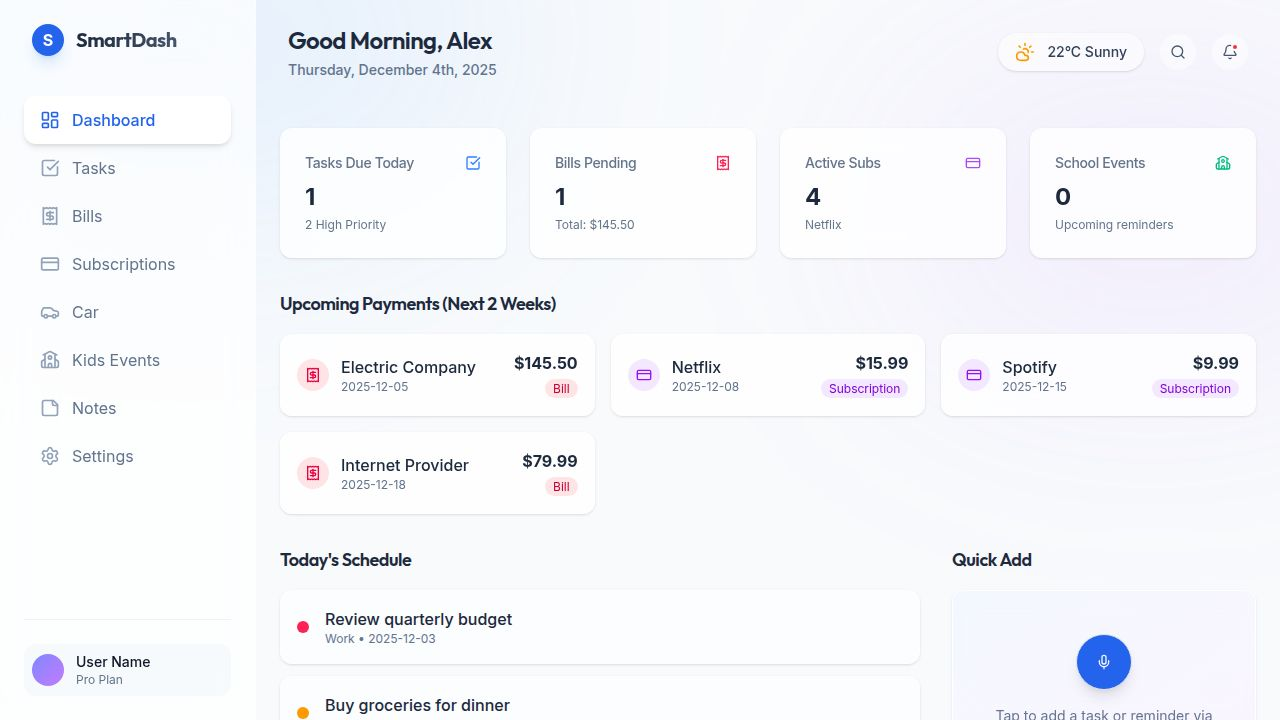
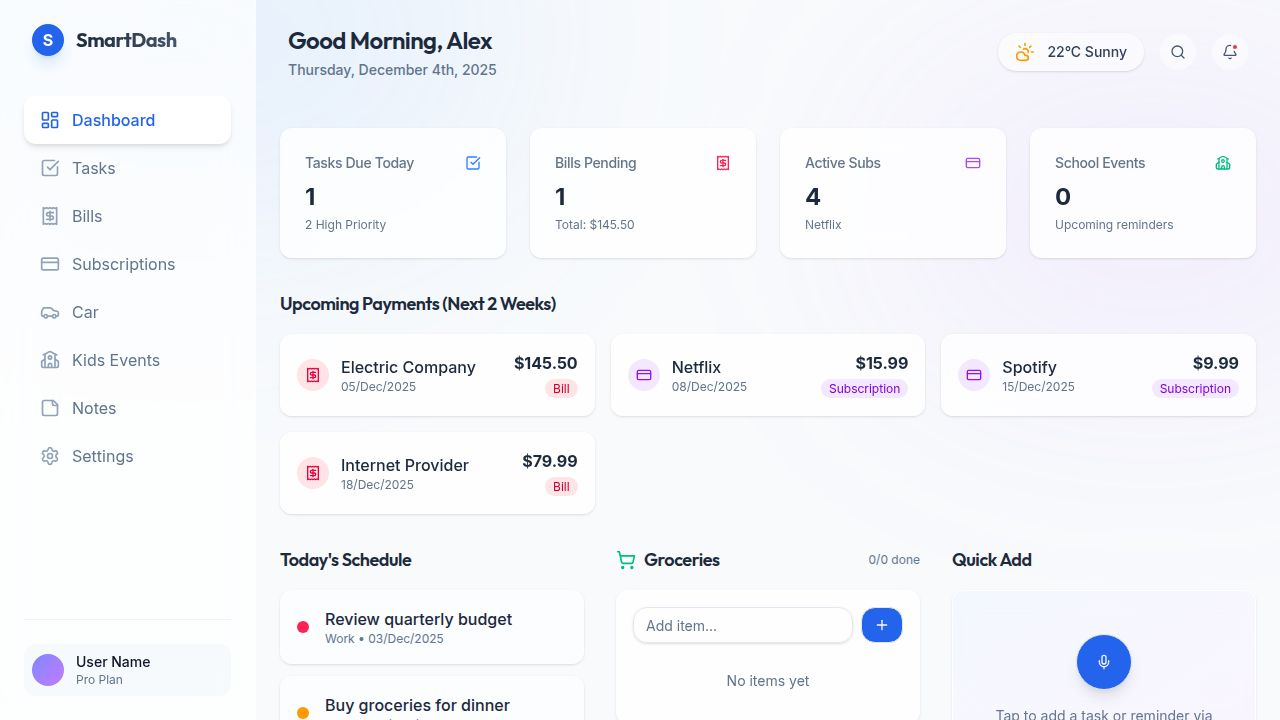
Allow users to mark bills as paid and edit payment details
Introduces a dialog for editing bill details and marking them as paid, along with a mutation to update bill status and last paid date.

Replit-Commit-Author: Agent
Replit-Commit-Session-Id: 42813163-b8d0-47a2-b8fa-e697e560c764
Replit-Commit-Checkpoint-Type: full_checkpoint
Replit-Commit-Event-Id: c5e2b43e-a37d-44c9-9261-855f9df0fc4d
Replit-Commit-Screenshot-Url: https://storage.googleapis.com/screenshot-production-us-central1/02ea1dc9-468e-4df3-adbd-6b48fe4e62f9/42813163-b8d0-47a2-b8fa-e697e560c764/0R4U4wr

diff --git a/client/src/pages/dashboard.tsx b/client/src/pages/dashboard.tsx
@@ -2,19 +2,26 @@ import { AppLayout } from "@/components/layout/app-layout";
 import { Card, CardContent, CardHeader, CardTitle } from "@/components/ui/card";
 import { Button } from "@/components/ui/button";
 import { Input } from "@/components/ui/input";
-import { CheckSquare, Receipt, CreditCard, School, ShoppingCart, Plus, X, Check } from "lucide-react";
+import { CheckSquare, Receipt, CreditCard, School, ShoppingCart, Plus, X, Check, CheckCircle } from "lucide-react";
 import { VoiceInput } from "@/components/voice-input";
+import { Dialog, DialogContent, DialogHeader, DialogTitle } from "@/components/ui/dialog";
+import { Select, SelectContent, SelectItem, SelectTrigger, SelectValue } from "@/components/ui/select";
+import { Label } from "@/components/ui/label";
 import { format } from "date-fns";
 import { cn } from "@/lib/utils";
 import { formatDisplayDate } from "@/lib/date-utils";
 import { useQuery, useMutation, useQueryClient } from "@tanstack/react-query";
-import { getTasks, getBills, getSubscriptions, getUpcomingPayments, getKidsEvents, getGroceries, createGrocery, updateGrocery, deleteGrocery, type UpcomingPayment } from "@/lib/api";
+import { getTasks, getBills, getSubscriptions, getUpcomingPayments, getKidsEvents, getGroceries, createGrocery, updateGrocery, deleteGrocery, updateBill, type UpcomingPayment } from "@/lib/api";
 import type { Bill, Subscription } from "@shared/schema";
 import { useState } from "react";
+import { useToast } from "@/hooks/use-toast";
 
 export default function Dashboard() {
   const queryClient = useQueryClient();
+  const { toast } = useToast();
   const [newGroceryItem, setNewGroceryItem] = useState("");
+  const [selectedPayment, setSelectedPayment] = useState<{ type: 'bill' | 'subscription'; item: Bill | Subscription } | null>(null);
+  const [editDialogOpen, setEditDialogOpen] = useState(false);
 
   const { data: tasks = [] } = useQuery({
     queryKey: ["tasks"],
@@ -68,6 +75,43 @@ export default function Dashboard() {
       queryClient.invalidateQueries({ queryKey: ["groceries"] });
     },
   });
+
+  const updateBillMutation = useMutation({
+    mutationFn: ({ id, data }: { id: number; data: Partial<Bill> }) =>
+      updateBill(id, data),
+    onSuccess: () => {
+      queryClient.invalidateQueries({ queryKey: ["bills"] });
+      queryClient.invalidateQueries({ queryKey: ["upcoming-payments"] });
+      toast({ title: "Bill updated" });
+      setEditDialogOpen(false);
+      setSelectedPayment(null);
+    },
+  });
+
+  const handlePaymentClick = (payment: UpcomingPayment) => {
+    setSelectedPayment({ type: payment.type, item: payment.item });
+    setEditDialogOpen(true);
+  };
+
+  const handleMarkPaid = () => {
+    if (selectedPayment?.type === 'bill') {
+      const bill = selectedPayment.item as Bill;
+      updateBillMutation.mutate({
+        id: bill.id,
+        data: { status: "Paid", lastPaid: format(new Date(), "yyyy-MM-dd") }
+      });
+    }
+  };
+
+  const handleStatusChange = (status: string) => {
+    if (selectedPayment?.type === 'bill') {
+      const bill = selectedPayment.item as Bill;
+      updateBillMutation.mutate({
+        id: bill.id,
+        data: { status }
+      });
+    }
+  };
 
   const handleAddGrocery = (e: React.FormEvent) => {
     e.preventDefault();
@@ -275,9 +319,15 @@ export default function Dashboard() {
               const name = isBill ? (item as Bill).provider : (item as Subscription).name;
               const amount = Number(isBill ? (item as Bill).amount : (item as Subscription).cost);
               const date = isBill ? (item as Bill).dueDate : (item as Subscription).renewalDate;
+              const status = isBill ? (item as Bill).status : null;
               
               return (
-                <div key={`${payment.type}-${item.id}`} className="glass-card p-4 rounded-xl flex items-center justify-between">
+                <div 
+                  key={`${payment.type}-${item.id}`} 
+                  className="glass-card p-4 rounded-xl flex items-center justify-between cursor-pointer hover:shadow-lg hover:scale-[1.02] transition-all"
+                  onClick={() => handlePaymentClick(payment)}
+                  data-testid={`payment-card-${payment.type}-${item.id}`}
+                >
                   <div className="flex items-center gap-3">
                     <div className={cn(
                       "p-2 rounded-lg",
@@ -294,9 +344,11 @@ export default function Dashboard() {
                     <p className="font-bold text-slate-800 dark:text-slate-100">${amount.toFixed(2)}</p>
                     <span className={cn(
                       "text-xs px-2 py-0.5 rounded-full",
-                      isBill ? "bg-rose-100 text-rose-700" : "bg-purple-100 text-purple-700"
+                      isBill && status === "Paid" ? "bg-green-100 text-green-700" :
+                      isBill && status === "Overdue" ? "bg-rose-100 text-rose-700" :
+                      isBill ? "bg-amber-100 text-amber-700" : "bg-purple-100 text-purple-700"
                     )}>
-                      {isBill ? "Bill" : "Subscription"}
+                      {isBill ? status : "Subscription"}
                     </span>
                   </div>
                 </div>
@@ -414,6 +466,79 @@ export default function Dashboard() {
             </Card>
           </div>
         </div>
+
+        {/* Edit Payment Dialog */}
+        <Dialog open={editDialogOpen} onOpenChange={setEditDialogOpen}>
+          <DialogContent className="sm:max-w-md">
+            <DialogHeader>
+              <DialogTitle>
+                {selectedPayment?.type === 'bill' ? 'Bill Details' : 'Subscription Details'}
+              </DialogTitle>
+            </DialogHeader>
+            {selectedPayment && (
+              <div className="space-y-4">
+                <div className="p-4 rounded-lg bg-slate-50 dark:bg-slate-800">
+                  <div className="flex items-center justify-between mb-2">
+                    <span className="font-semibold text-lg">
+                      {selectedPayment.type === 'bill' 
+                        ? (selectedPayment.item as Bill).provider 
+                        : (selectedPayment.item as Subscription).name}
+                    </span>
+                    <span className="text-xl font-bold">
+                      ${Number(selectedPayment.type === 'bill' 
+                        ? (selectedPayment.item as Bill).amount 
+                        : (selectedPayment.item as Subscription).cost).toFixed(2)}
+                    </span>
+                  </div>
+                  <p className="text-sm text-slate-500">
+                    {selectedPayment.type === 'bill' ? 'Due: ' : 'Renews: '}
+                    {formatDisplayDate(selectedPayment.type === 'bill' 
+                      ? (selectedPayment.item as Bill).dueDate 
+                      : (selectedPayment.item as Subscription).renewalDate)}
+                  </p>
+                </div>
+
+                {selectedPayment.type === 'bill' && (
+                  <div className="space-y-3">
+                    <div className="space-y-2">
+                      <Label>Status</Label>
+                      <Select 
+                        value={(selectedPayment.item as Bill).status} 
+                        onValueChange={handleStatusChange}
+                      >
+                        <SelectTrigger>
+                          <SelectValue />
+                        </SelectTrigger>
+                        <SelectContent>
+                          <SelectItem value="Due">Due</SelectItem>
+                          <SelectItem value="Paid">Paid</SelectItem>
+                          <SelectItem value="Overdue">Overdue</SelectItem>
+                        </SelectContent>
+                      </Select>
+                    </div>
+                    
+                    {(selectedPayment.item as Bill).status !== 'Paid' && (
+                      <Button 
+                        onClick={handleMarkPaid} 
+                        className="w-full bg-green-600 hover:bg-green-700"
+                        disabled={updateBillMutation.isPending}
+                      >
+                        <CheckCircle className="h-4 w-4 mr-2" />
+                        Mark as Paid
+                      </Button>
+                    )}
+                  </div>
+                )}
+
+                {selectedPayment.type === 'subscription' && (
+                  <p className="text-sm text-slate-500 text-center">
+                    {(selectedPayment.item as Subscription).cycle} subscription
+                  </p>
+                )}
+              </div>
+            )}
+          </DialogContent>
+        </Dialog>
       </div>
     </AppLayout>
   );
